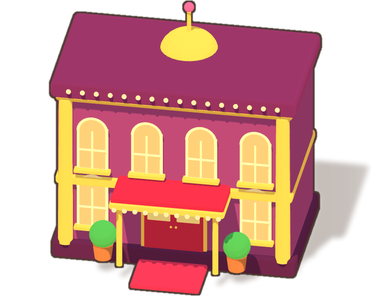
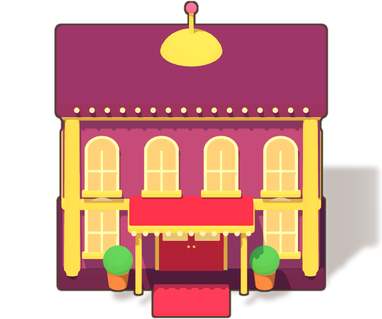
feat(city): casino, bank, shop and hospital face the street (front-facing 3D renders)

diff --git a/public/city.js b/public/city.js
@@ -232,7 +232,7 @@
   function register(name, dir, it, file) {
     const k = it.scale || 1;
     const [ax, ay] = anchorOf(it, it.w, it.h);
-    art[name] = { src: dir + (file || it.file), w: it.w * k, h: it.h * k, ax: ax * k, ay: ay * k };
+    art[name] = { src: dir + (file || it.file), w: it.w * k, h: it.h * k, ax: ax * k, ay: ay * k, pw: it.w };
     sizes[name] = [it.w * k, it.h * k];
   }
   function artSet() {
@@ -751,7 +751,7 @@
     for (const c3 of ROAD_COLS) at('tree_big', (c3[0] + 1.5) * T, HORIZON + 14, 0.75);
 
     // Toà nhà bờ Bắc đặt giữa lô, cửa ở đáy (sát vỉa hè hàng 8); hai bên mỗi toà có cây phố và chậu hoa.
-    const BK = art3d ? { casino: 1.2, bank: 1.02, shop: 1.22, hospital: 0.96 } : { casino: 1, bank: 0.86, shop: 1, hospital: 0.8 };
+    const BK = art3d ? CITY3D_K : { casino: 1, bank: 0.86, shop: 1, hospital: 0.8 };
     const footC = northFoot('building_casino', BK.casino);
     const footB = northFoot('building_bank', BK.bank);
     const footS = northFoot('building_shop', BK.shop);
@@ -829,11 +829,13 @@
     if (fx) {
       const [sx, sy] = casinoSignAt();
       if (art3d) {
-        const dB = footB - 8 * T;
-        const dS = footS - 8 * T;
-        const dC = footC - 8 * T;
-        fx.push(['bulbs', sx, sy - 22], ['coin', 700, 150 + dB], ['coin', 932, 150 + dB], ['neon', 1402, 92 + dS], ['cross', 214, 774],
-          ['spray', 816, 862], ['flag', 120, 26 + dC], ['flag', 300, 26 + dC, true], ['flag', 640, 70 + dB], ['bunting', 1402, 196 + dS]);
+        const C = (ix, iy) => onBuilding('building_casino', 224, footC, BK.casino, ix, iy);
+        const B = (ix, iy) => onBuilding('building_bank', 816, footB, BK.bank, ix, iy);
+        const S = (ix, iy) => onBuilding('building_shop', 1402, footS, BK.shop, ix, iy);
+        const Hs = (ix, iy) => onBuilding('building_hospital', 224, 966, BK.hospital, ix, iy);
+        fx.push(['bulbs', sx, sy - 22], ['coin', ...B(170, 112)], ['coin', ...B(360, 112)], ['neon', ...S(151, 130)],
+          ['cross', ...Hs(175, 51)], ['spray', 816, 862], ['flag', ...C(64, 30)], ['flag', ...C(318, 30), true],
+          ['flag', ...B(265, 8)], ['bunting', ...S(151, 196)]);
       } else {
         fx.push(['bulbs', 224, 0], ['coin', 712, 112], ['coin', 920, 112], ['neon', 1392, 36], ['cross', 224, 822],
           ['spray', 816, 846], ['flag', 112, 40], ['flag', 336, 40, true], ['flag', 816, 66], ['bunting', 1392, 200]);
@@ -1044,16 +1046,24 @@
 
   // Biển CASINO nhấp nháy đè đúng lên biển trên nóc toà Casino.
   // Tâm biển CASINO rời: bộ 3D đặt trên mép mái trước của toà (điểm (175, 58) trong ảnh toà), bộ 2D đè lên biển vẽ sẵn.
+  // Tỉ lệ các toà bộ 3D (mặt tiền song song đường) để vừa lô đất.
+  const CITY3D_K = { casino: 1.12, bank: 0.88, shop: 1.24, hospital: 0.95 };
+  // Toạ độ bản đồ của điểm (ix, iy) tính bằng px trong ảnh gốc của toà đặt chân ở (fx, fy) với tỉ lệ k.
+  function onBuilding(name, fx, fy, k, ix, iy) {
+    const a = art[name];
+    if (!a) return [fx, fy];
+    const u = a.w / (a.pw || a.w);
+    return [fx + (ix * u - a.ax) * k, fy + (iy * u - a.ay) * k];
+  }
+  // Tâm biển CASINO rời: bộ 3D đặt trên mái trước của toà (điểm (191, 66) trong ảnh toà), bộ 2D đè lên biển vẽ sẵn.
   function casinoSignAt() {
-    const b = art.building_casino;
-    if (!art3d || !b) {
+    if (!art3d || !art.building_casino) {
       const [, bh] = sizes.building_casino || [262, 260];
       const [, sh] = sizes.sign_casino || [170, 44];
       return [224, 8 * T - bh + 4 + sh / 2];
     }
-    const k = 1.2; // = BK.casino của bộ 3D trong props()
-    const u = b.w / 371; // ảnh gốc 371 × 296 → đơn vị hiển thị
-    return [224 + (175 * u - b.ax) * k, northFoot('building_casino', k) - (b.ay - 58 * u) * k];
+    const k = CITY3D_K.casino;
+    return onBuilding('building_casino', 224, northFoot('building_casino', k), k, 191, 66);
   }
   function signHtml() {
     const [sw, sh] = sizes.sign_casino || [170, 44];
